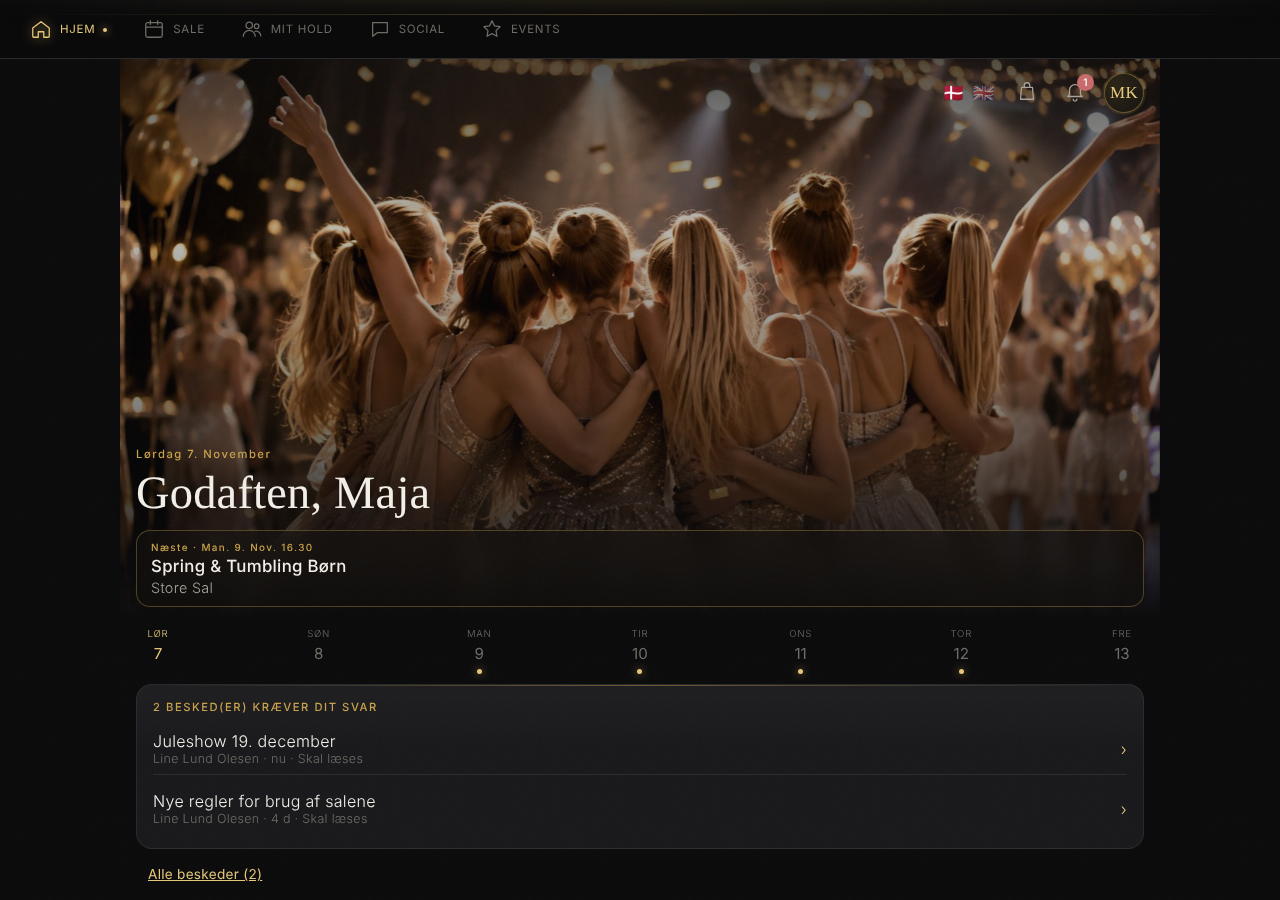
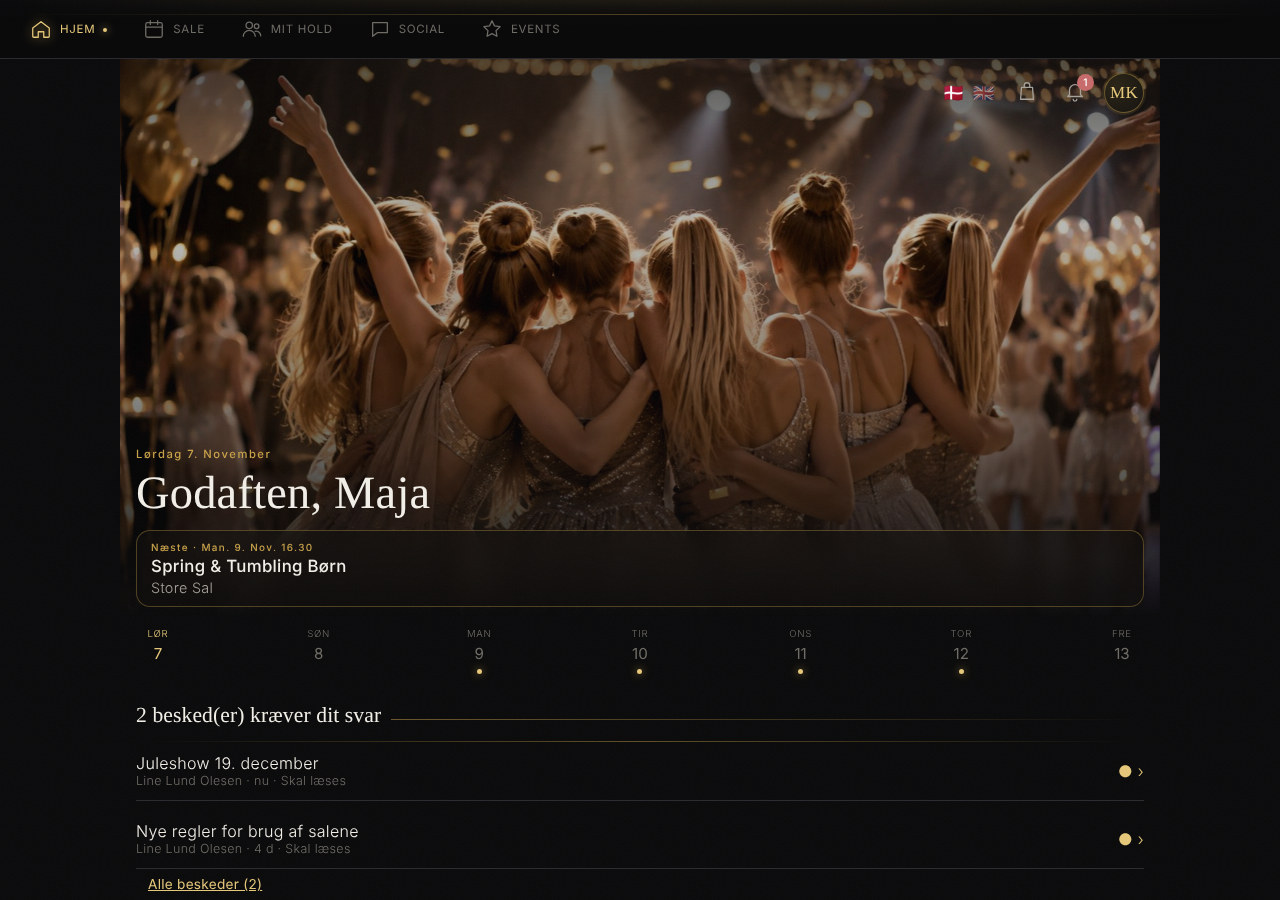
Home: messages box shows the latest 3 (due first) in a ScrollList like every other box, for admins too; team picker explains an empty child view (child only a trainer → parent follows no team)
Claude-Session: https://claude.ai/code/session_01GGpukzb1UrCDBdg1Js3mqC

Changed region(s): [[0.0938, 0.7778, 0.3125, 0.9956], [0.875, 0.84, 0.9062, 0.8711]]

diff --git a/src/domain/llds/components/Messages.tsx b/src/domain/llds/components/Messages.tsx
@@ -3,6 +3,7 @@ import { useTranslation } from "react-i18next";
 import { api, type Audience, type Message, type MessageStatus, type Team } from "@/core/api";
 import { useAuth } from "@/core/auth";
 import { Sheet } from "./Sheet";
+import { ScrollList } from "./ScrollList";
 import { ago } from "../lib/time";
 
 /** Official messages from Line/trainers that must be read or accepted. The banner shows the ones you still owe an answer. */
@@ -14,12 +15,13 @@ export function MessageBanner({ toast }: { toast: (m: string) => void }) {
   const load = useCallback(async () => setList(await api.listMessages()), []);
   useEffect(() => { void load(); }, [load]);
   const due = list.filter((m) => !m.acted_at);
+  // latest first, the ones that still need me on top – the box shows 3 rows like every other box on Home
+  const shown = [...due, ...list.filter((m) => m.acted_at)];
   return (
     <>
-      {due.length > 0 && (
-        <div className="card msg-banner" data-testid="msg-banner">
-          <div className="eyebrow">{t("msg.needsYou", { n: due.length })}</div>
-          {due.slice(0, 3).map((m) => <button key={m.id} className="item" onClick={() => setOpen(m)}><span className="grow">{m.title}<div className="tiny">{m.author_name} · {ago(m.created_at)} · {t(`msg.needs.${m.needs}`)}</div></span><span className="gold">›</span></button>)}
+      {list.length > 0 && (
+        <div className="sec" data-testid="msg-banner"><h2>{due.length ? t("msg.needsYou", { n: due.length }) : t("msg.title")}</h2>
+          <ScrollList testId="msg-list">{shown.map((m) => <button key={m.id} className={"item" + (m.acted_at ? "" : " due")} onClick={() => setOpen(m)}><span className="grow">{m.title}<div className="tiny">{m.author_name} · {ago(m.created_at)} · {m.acted_at ? t(`msg.done.${m.needs}`) : t(`msg.needs.${m.needs}`)}</div></span><span className="gold">{m.acted_at ? "" : "●"} ›</span></button>)}</ScrollList>
         </div>
       )}
       <button className="linklike small" onClick={() => setAll(true)}>{t("msg.all", { n: list.length })}</button>

diff --git a/src/domain/llds/components/TeamPicker.tsx b/src/domain/llds/components/TeamPicker.tsx
@@ -42,7 +42,8 @@ export function TeamPicker() {
                     {x.id === teamId && <span className="gold">✓</span>}
                   </button>
                 ))}
-                {!myTeams.length && <p className="muted">{t("team.noneYet")}</p>}
+                {!myTeams.length && (() => { const kid = viewing.isChild ? me.children.find((c) => c.id === viewing.personId) : null; const staffOn = kid ? me.memberships.filter((m) => m.person_id === kid.id && m.role !== "dancer").map((m) => me.teams.find((x) => x.id === m.team_id)?.name).filter(Boolean) : []; return (
+                  <p className="muted">{kid ? (staffOn.length ? t("team.childNoDancerTeams", { name: kid.first_name, teams: staffOn.join(", ") }) : t("team.childNoTeams", { name: kid.first_name })) : t("team.noneYet")}</p>); })()}
               </div>
             </div>
           </div>
